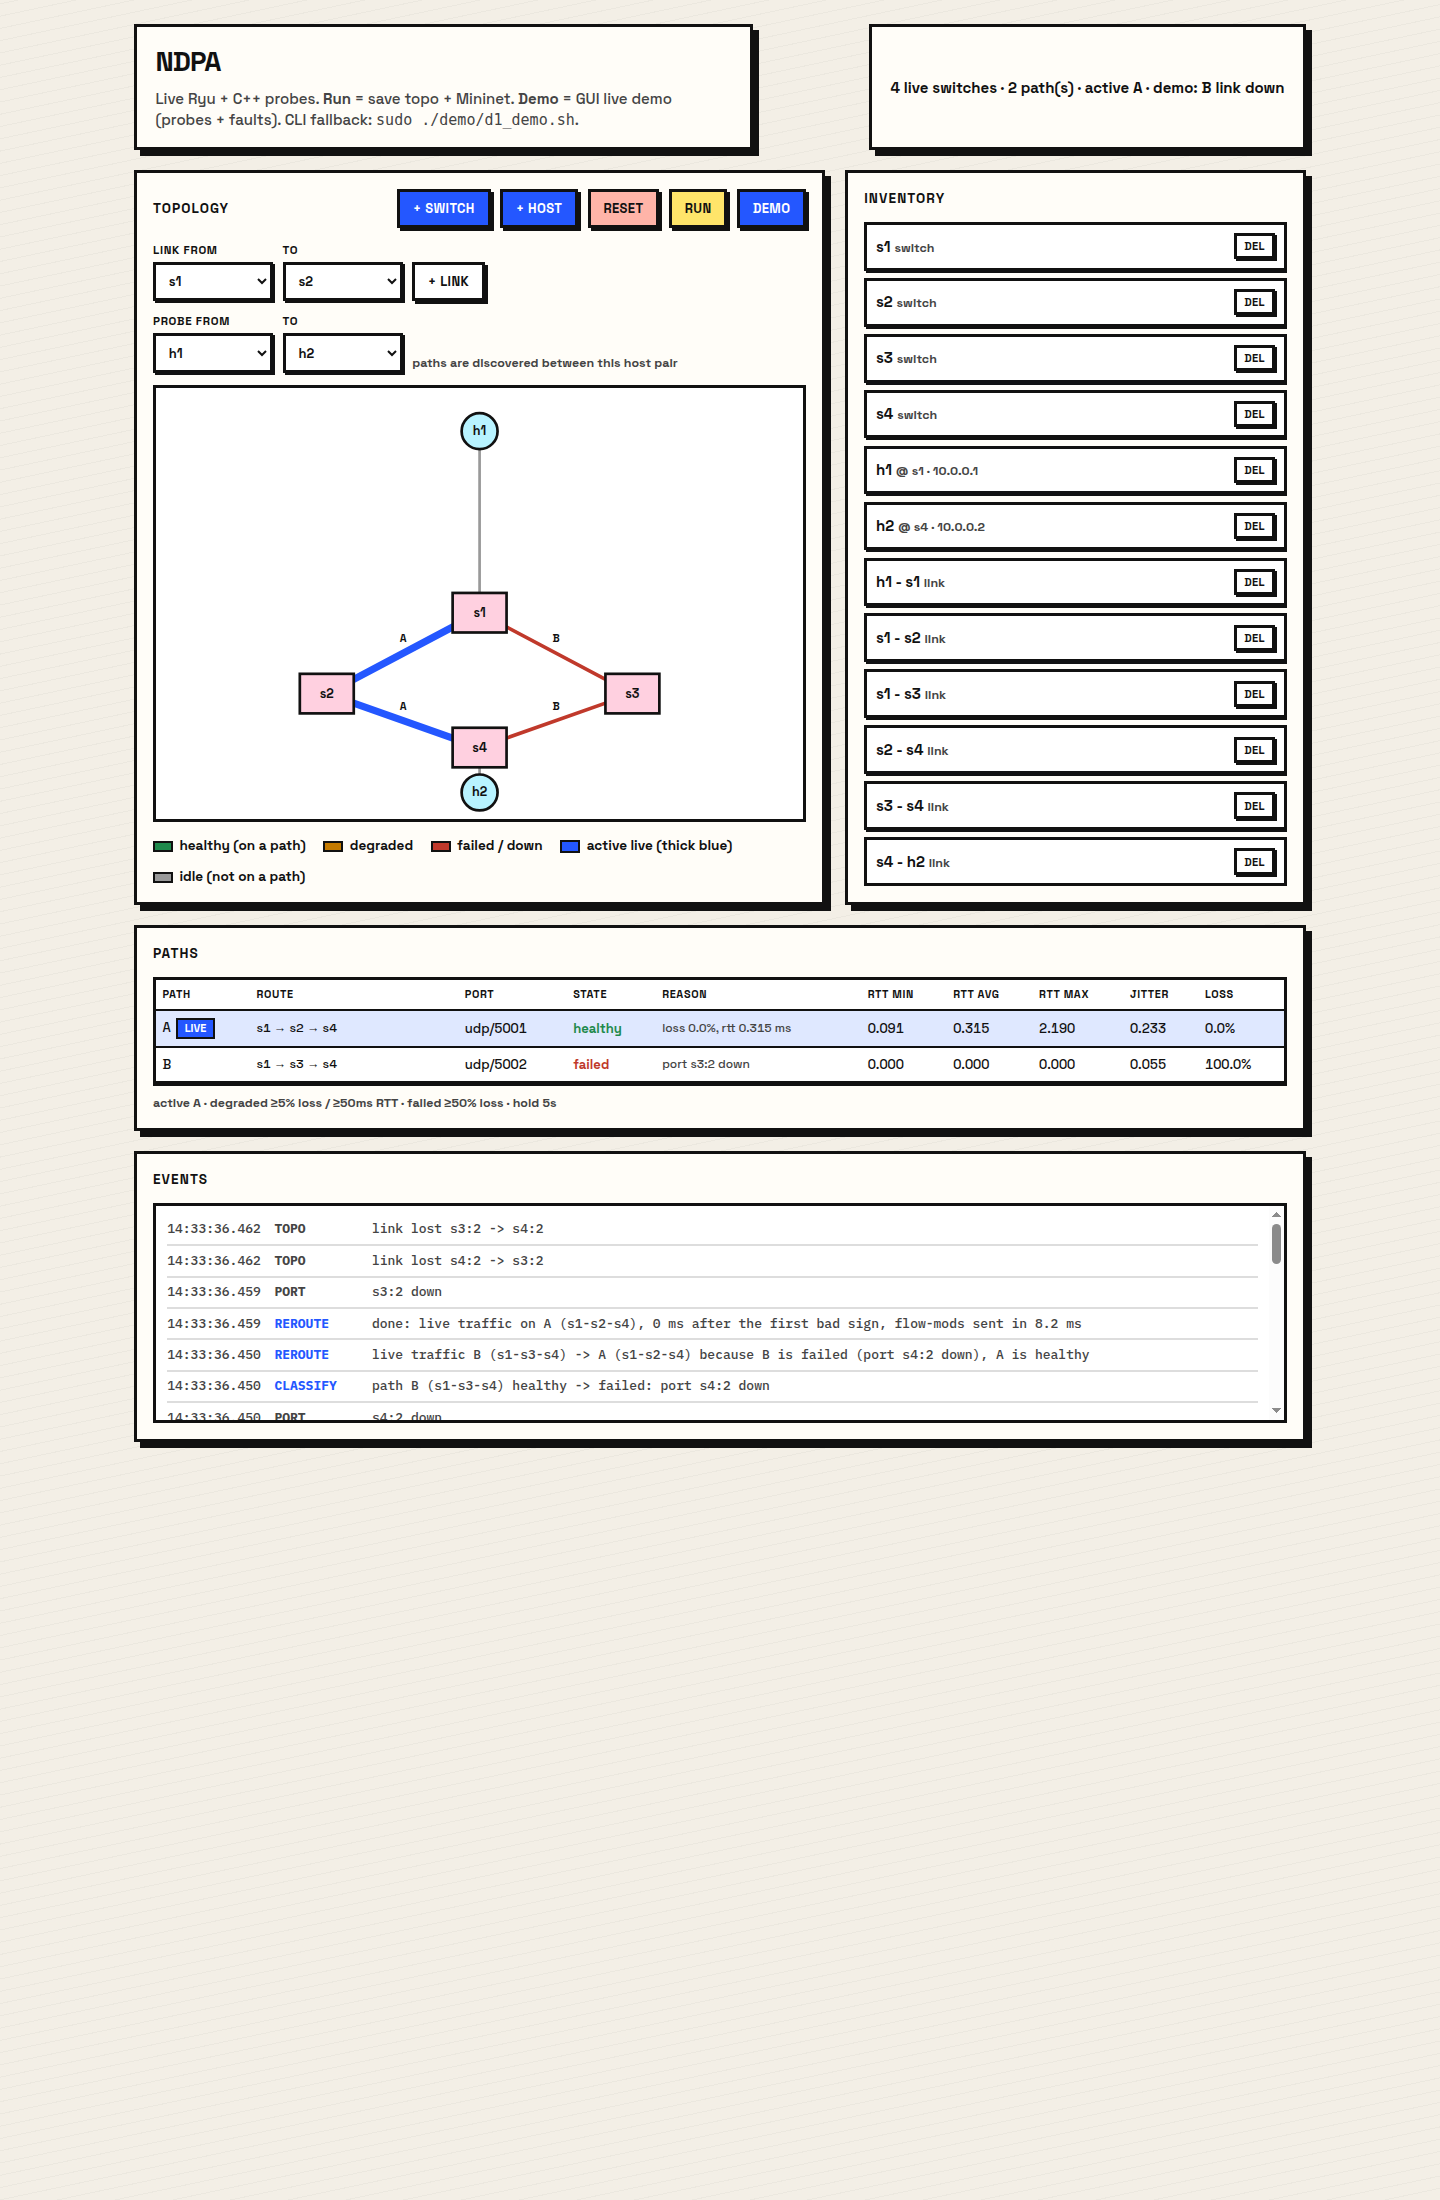
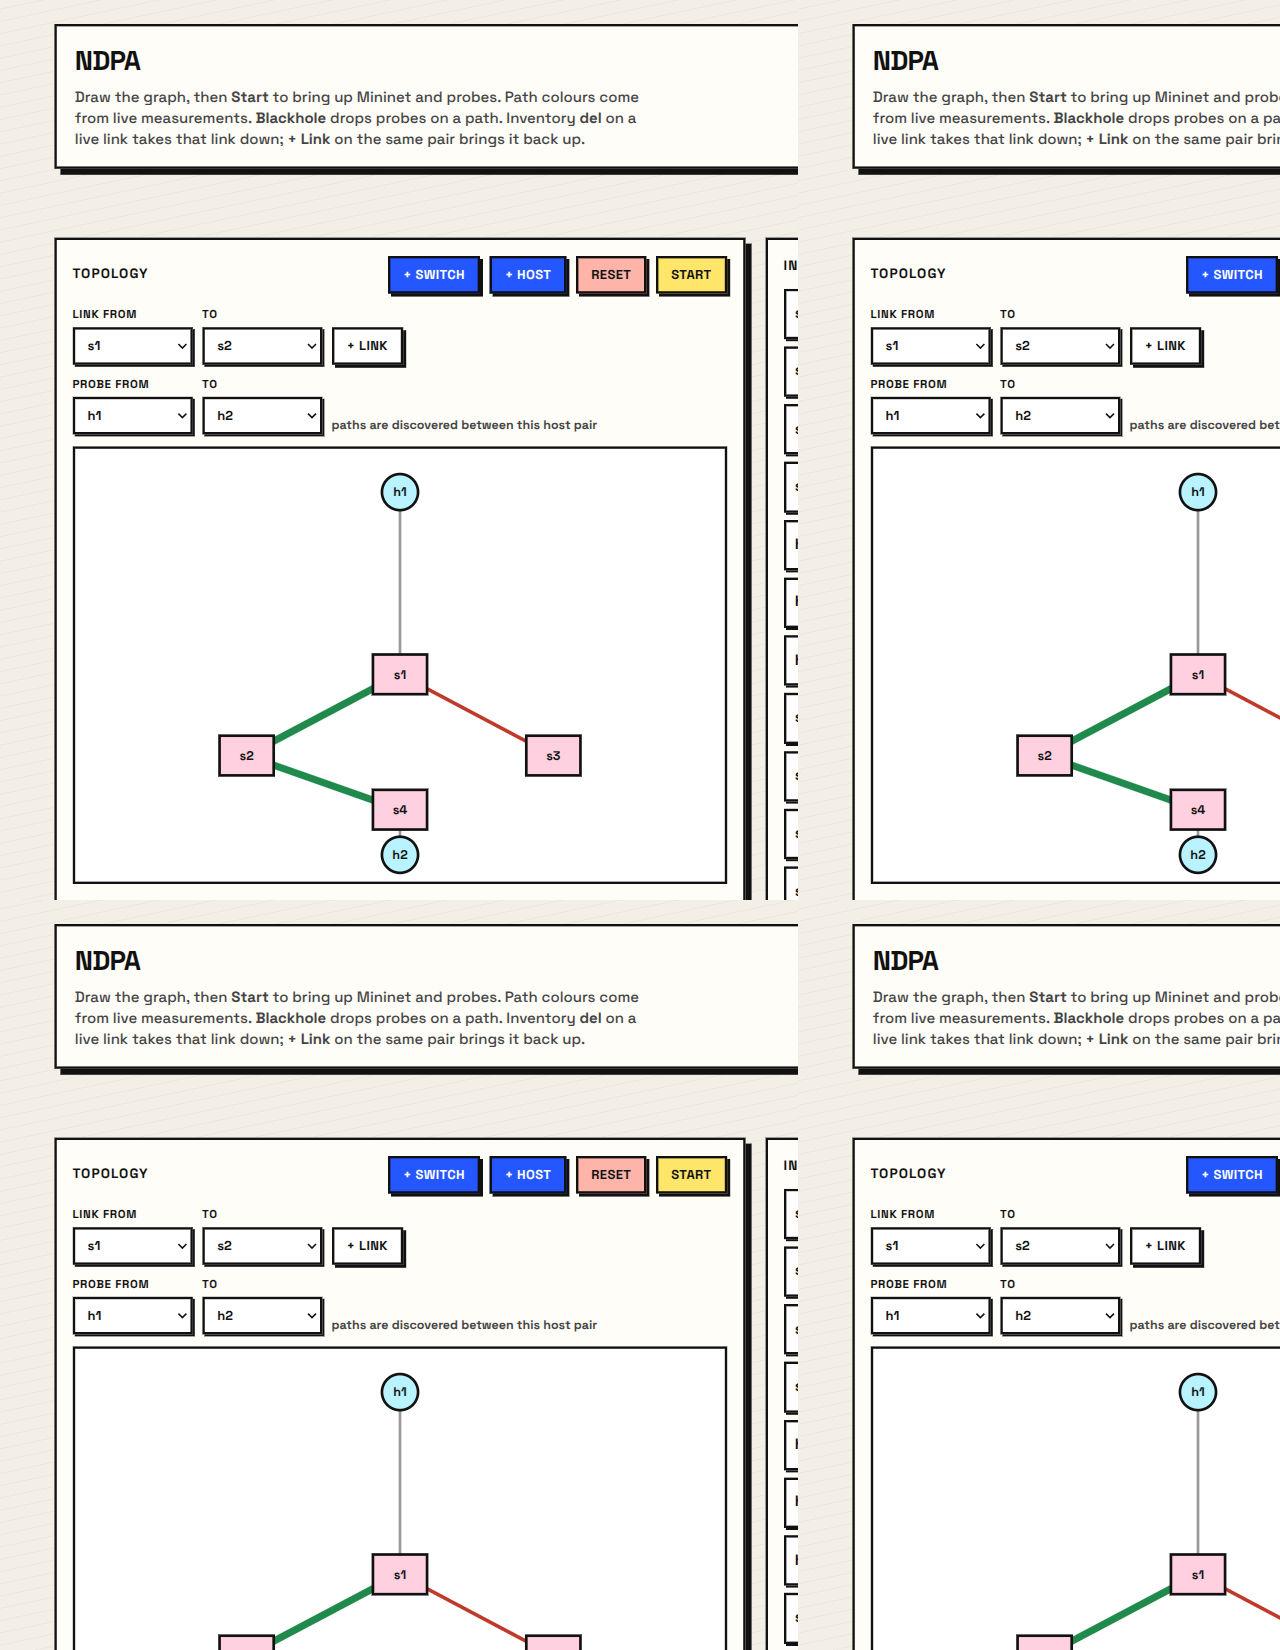
Update README architecture, team names, and live dashboard screenshots.
The chart, REST, and probe-port docs match the current GUI stack. Captures are from a real diamond run.

diff --git a/README.md b/README.md
@@ -30,43 +30,44 @@ A socket-based network diagnostic application that measures **delay (RTT)**, **p
 
 ## Features
 
-1. **Topology discovery**: switches, links, and host attachment points.
-2. **Per-path UDP probing**: each candidate path pinned by destination port (`5001`, `5002`, …).
+1. **Topology discovery**: switches, links, and host attachment points (default diamond, or the graph drawn in the dashboard).
+2. **Per-path UDP probing**: each discovered route pinned by destination port (`5001`, `5002`, `5004`, …; `5003` is live traffic).
 3. **Telemetry**: RTT (min/avg/max), jitter, and loss over an out-of-band TCP channel.
 4. **Classification**: healthy / degraded / failed with hold-time to avoid flapping.
 5. **Reroute**: live traffic moved to the best healthy alternative; decisions logged with timestamps.
-6. **Live dashboard**: `frontend/` at http://127.0.0.1:8080/ndpa/ (served by Ryu).
+6. **Live dashboard**: draw the graph, press **Start**, **Blackhole** / **Clear** a path, or take a live link down from Inventory.
 
 ---
 
 ## Architecture
 
 ```mermaid
-graph TD
-    subgraph DP["Data plane (Mininet hosts)"]
-        C["C++ client (h1)"] -- "UDP probes, one dst port per path" --> S["C++ reflector (h2)"]
-        S -- "Echo" --> C
-    end
+flowchart TB
+    D["Dashboard /ndpa/"]
 
     subgraph CP["Control plane"]
-        R["Ryu NDPA controller<br/>topology · path table · analysis · REST"]
-        UI["Dashboard frontend/<br/>/ndpa/"]
+        R["Ryu: topology, analysis, REST"]
+        A["Root agent"]
+        R -->|"Start / faults"| A
     end
 
-    subgraph NS["Substrate (OVS)"]
-        SW1((s1)) --- SW2((s2))
-        SW1 --- SW3((s3))
-        SW2 --- SW4((s4))
-        SW3 --- SW4
+    subgraph DP["Data plane"]
+        SRC["C++ client"]
+        SW["OVS"]
+        DST["C++ reflector"]
+        SRC --- SW
+        SW --- DST
+        SRC -->|"UDP probes, one port per path"| DST
     end
 
-    C --- SW1
-    S --- SW4
-    C -- "JSON reports TCP :9100 (mgmt veth)" --> R
-    R -- "OpenFlow FlowMods" --> NS
-    NS -- "Port status / stats" --> R
-    UI -- "GET /ndpa/paths · events · topology" --> R
+    D -->|"GET / POST"| R
+    A -->|"Mininet + probes"| SW
+    SRC -->|"JSON :9100, mgmt veth"| R
+    R -->|"OpenFlow"| SW
+    SW -->|"port status"| R
 ```
+
+The dashboard default is the diamond below. **Start** saves `topology/topo.json` and brings up that graph. Probe src/dst come from the **Probe from / to** selectors, not a hardcoded host pair.
 
 ### Default diamond paths
 
@@ -74,14 +75,29 @@ graph TD
 |-------|------------|------|
 | s1 → s2 → s4 | udp/5001 | Candidate path |
 | s1 → s3 → s4 | udp/5002 | Candidate path |
-| follows active route | udp/5003 | Live traffic |
+| extra discovered routes | udp/5004, 5005, … | Up to 8 probe paths |
+| follows the active route | udp/5003 | Live IPv4 / ARP between the probe pair |
+
+Probe ports are assigned shortest-first from a pool of eight UDP ports, skipping `5003` so a third route still gets a probe.
+
+### Control and REST
+
+| Piece | Role |
+|-------|------|
+| Root agent (`./demo/gui.sh`) | One sudo prompt. Dashboard Start and faults talk to this helper |
+| `GET /ndpa/health` | Agent, Mininet, hosts, paths, probe-report checklist |
+| `GET /ndpa/topology` | Switches, links, hosts |
+| `GET /ndpa/paths` | Path table, states, last reports, active path |
+| `GET /ndpa/events` | Recent decisions |
+| `POST /ndpa/run` | Save `topology/topo.json`; enqueue Mininet + C++ probes |
+| `POST /ndpa/fault` | Blackhole, Clear, link down, link up |
 
 ### Design decisions
 
-* **Path pinning by UDP port**: forward match `udp_dst`, echo match `udp_src`, so all paths can be measured at once.
-* **Soft vs hard faults**: `tc netem` (probes see loss; link stays up) vs link removal / port-down (OpenFlow status).
+* **Path pinning by UDP port**: forward match `udp_dst`, echo match `udp_src`, so every candidate can be measured at once.
+* **Soft vs hard faults**: **Blackhole** is `tc netem` 100% loss (link stays up; only probes see it). Inventory **del** on a live link takes the interface down (OpenFlow port-down). **+ Link** on the same pair brings it back.
 * **Client reports, controller decides**: analysis stays next to the topology.
-* **Control off the data path**: OpenFlow on loopback; telemetry on a dedicated mgmt veth (`diamond.py --mgmt`).
+* **Control off the data path**: OpenFlow on loopback. Start adds a dedicated mgmt veth so JSON reports never share the probed links.
 * **No ARP flooding**: static ARP + proactive flows (the topology has a loop).
 
 ### Tech stack
@@ -90,9 +106,10 @@ graph TD
 |-------|--------|
 | Probes | C++ `telemetry/{client,server,stats,report}.cpp`, `protocol.h` |
 | Controller | Python / Ryu 4.34 (`controller/ndpa_controller.py`, `analysis.py`) |
-| Emulation | Mininet + Open vSwitch (`topology/diamond.py`) |
+| Emulation | Mininet + Open vSwitch (`topology/diamond.py`, `topo.json`) |
+| GUI helper | `demo/gui.sh` + `demo/gui_agent.py` (root) + `demo/gui_demo.py` |
 | UI | Static `frontend/` served by Ryu WSGI |
-| CI | GitHub Actions (lint, C++ build/tests, Mininet integration) |
+| CI | GitHub Actions (lint, C++ build/tests, Mininet integration, D1 demo) |
 
 ---
 
@@ -104,7 +121,7 @@ telemetry/          C++ client, reflector, stats, Makefile
 controller/         Ryu app + path classifier
 frontend/           live dashboard (HTML/CSS/JS)
 topology/           Mininet diamond topology
-demo/               runnable demos and helpers
+demo/               gui.sh (dashboard) and d1_demo.sh (headless)
 tests/              unit + integration
 eval/               benchmark hooks
 docs/screenshots/   dashboard captures
@@ -145,19 +162,21 @@ python3 tests/test_eval_metrics.py
 ./demo/gui.sh
 ```
 
-This starts the controller and a root helper. Press **Start** on the dashboard to bring up Mininet and the C++ probes. Dashboard: http://127.0.0.1:8080/ndpa/
+This starts the controller and a root helper (sudo once). Press **Start** on the dashboard to bring up Mininet and the C++ probes. Dashboard: http://127.0.0.1:8080/ndpa/
 
-```bash
-./demo/gui.sh --serve    # same: controller + agent; drive the graph from the UI
-```
+`--serve` is the same command. Ctrl-C stops the agent; Ryu keeps running.
 
-Headless end-to-end check (no dashboard):
+Headless end-to-end check (no dashboard; uses the fixed diamond):
 
 ```bash
 sudo ./demo/d1_demo.sh
 ```
 
-Set `RYU_MANAGER` if `ryu-manager` is not on `.venv/bin`. Pass `--datapath user` when the OVS kernel module is unavailable.
+Set `RYU_MANAGER` if `ryu-manager` is not on `.venv/bin`. For the CLI demo only, pass `--datapath user` when the OVS kernel module is unavailable:
+
+```bash
+sudo ./demo/d1_demo.sh --datapath user
+```
 
 ---
 
@@ -166,9 +185,9 @@ Set `RYU_MANAGER` if `ryu-manager` is not on `.venv/bin`. Pass `--datapath user`
 | # | Scenario | Trigger |
 |---|----------|---------|
 | 1 | Healthy baseline | No faults |
-| 2 | Soft failure | Blackhole / `tc netem` loss on a path (link stays up) |
-| 3 | Hard failure | Link removed or port down mid-transfer |
-| 4 | Recovery | Fault cleared |
+| 2 | Soft failure | Dashboard **Blackhole** (`tc netem` 100% loss; link stays up) |
+| 3 | Hard failure | Inventory **del** on a live link (port down) |
+| 4 | Recovery | **Clear** netem, or **+ Link** on the same pair |
 
 **Metrics:** RTT and loss per path (before/after reroute), detection time, recovery time.
 
@@ -176,12 +195,12 @@ Set `RYU_MANAGER` if `ryu-manager` is not on `.venv/bin`. Pass `--datapath user`
 
 ## Screenshots
 
-From a live GUI run against Ryu at `/ndpa/` (real C++ probes + Mininet diamond).
+From a live GUI run against Ryu at `/ndpa/` (real C++ probes + Mininet diamond). Path names are the switch route (`s1-s2-s4`), not letters.
 
 | # | Capture | What it shows |
 |---|---------|----------------|
 | 1 | Baseline | Both paths healthy; live on s1→s2→s4 |
-| 2 | Soft blackhole | Path s1→s2→s4 failed (100% loss); live moved to s1→s3→s4 |
+| 2 | Soft blackhole | s1→s2→s4 failed (100% loss); live moved to s1→s3→s4 |
 | 3 | Hard failure | Alternate path failed on port-down; PORT / CLASSIFY / REROUTE events |
 | 4 | Metrics | RTT min/avg/max, jitter, loss after recovery |
 
@@ -191,7 +210,7 @@ From a live GUI run against Ryu at `/ndpa/` (real C++ probes + Mininet diamond).
 
 ### Soft blackhole and reroute
 
-![Path failed, live traffic moved](docs/screenshots/02-path-a-failed-reroute.png)
+![Path failed, live traffic moved](docs/screenshots/02-blackhole-reroute.png)
 
 ### Hard failure and event log
 
@@ -205,11 +224,7 @@ From a live GUI run against Ryu at `/ndpa/` (real C++ probes + Mininet diamond).
 
 ## Video demo
 
-```text
-Video: <add link after recording>
-```
-
-Suggested walkthrough: start `./demo/gui.sh`, show healthy paths, blackhole one path, show classification and reroute, clear the fault, show recovery.
+A recorded walkthrough is not in the repo yet. Suggested script: start `./demo/gui.sh`, press **Start**, show healthy paths, **Blackhole** one path, show classification and reroute, inventory-**del** a live link, **+ Link** to restore, **Clear** netem, show recovery.
 
 ---
 
@@ -217,8 +232,9 @@ Suggested walkthrough: start `./demo/gui.sh`, show healthy paths, blackhole one 
 
 | Member | Focus |
 |--------|--------|
-| [LonelyGuy-SE1](https://github.com/LonelyGuy-SE1) | Probe engine, Ryu controller and analysis, Mininet topology, demos, dashboard, CI |
-| [divyansi](https://github.com/divyansi) | Early repository and project setup |
+| Greeshma Surya | Probe engine, Ryu controller and analysis, Mininet topology, demos, dashboard, CI |
+| Divyansi KV | |
+| Bhanu Teja | |
 
 ---
 

diff --git a/docs/screenshots/README.md b/docs/screenshots/README.md
@@ -1,12 +1,12 @@
 # Screenshots
 
-Live captures from `./demo/gui.sh` against a running Ryu NDPA controller.
+Live captures from `./demo/gui.sh` against a running Ryu NDPA controller (default diamond, probe h1 → h2).
 
 | File | Phase |
 |------|--------|
-| `01-dashboard-baseline.png` | Both paths healthy, live on A |
-| `02-path-a-failed-reroute.png` | A blackholed (netem 100% loss), live on B |
-| `03-events-reroute.png` | B link down, PORT / CLASSIFY / REROUTE |
-| `04-paths-table-metrics.png` | Hold after recovery — RTT / jitter / loss |
+| `01-dashboard-baseline.png` | Both paths healthy, live on s1→s2→s4 |
+| `02-blackhole-reroute.png` | s1→s2→s4 blackholed (netem 100% loss), live on s1→s3→s4 |
+| `03-events-reroute.png` | Alternate path link down, PORT / CLASSIFY / REROUTE |
+| `04-paths-table-metrics.png` | After recovery — RTT / jitter / loss |
 
 Embedded in the root [README](../../README.md#screenshots).
